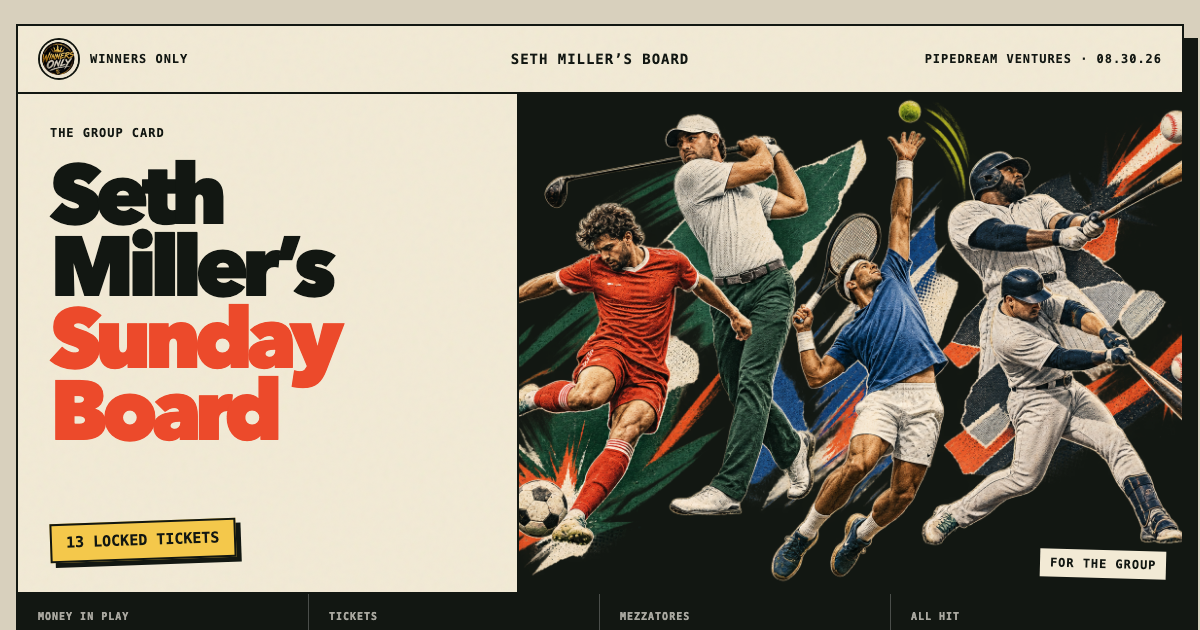
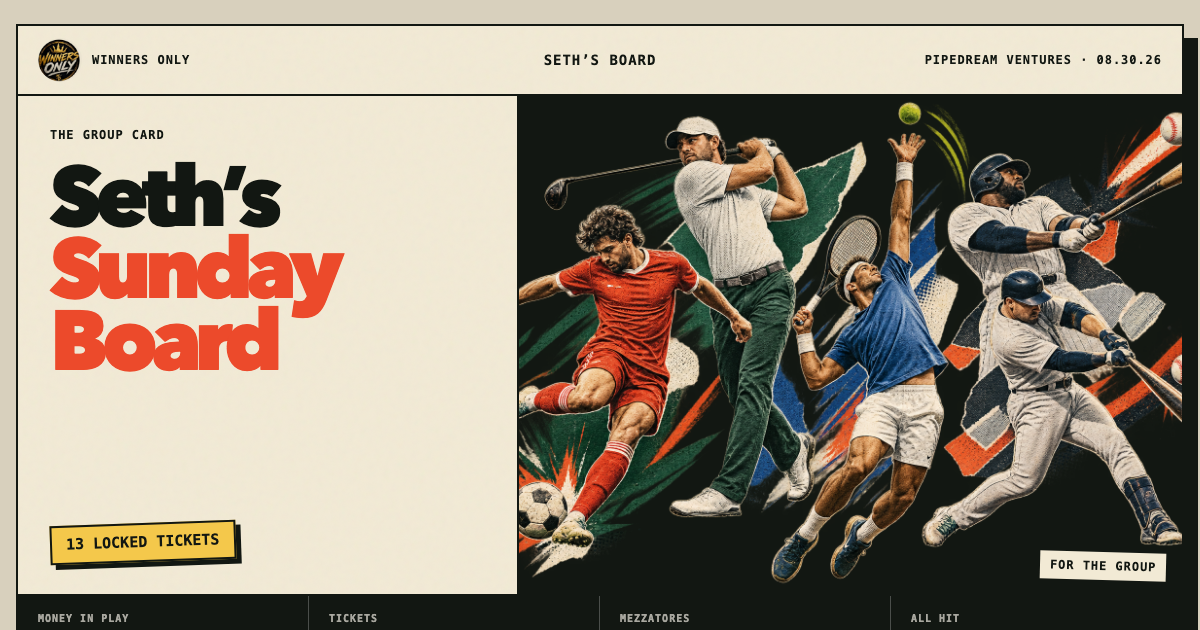
Polish Seth Sunday Board branding

diff --git a/work/sunday-board/index.html b/work/sunday-board/index.html
@@ -3,13 +3,13 @@
   <head>
     <meta charset="utf-8" />
     <meta name="viewport" content="width=device-width, initial-scale=1" />
-    <title>Winners Only · Seth Miller’s Sunday Board</title>
+    <title>Winners Only · Seth’s Sunday Board</title>
     <meta name="description" content="The Winners Only group card for August 30. Thirteen tickets and two Mezzatores." />
     <meta name="robots" content="noindex, nofollow, noarchive" />
     <link rel="canonical" href="https://pipedream.ventures/work/sunday-board/" />
     <meta property="og:type" content="website" />
     <meta property="og:site_name" content="Pipedream Ventures" />
-    <meta property="og:title" content="Winners Only · Seth Miller’s Sunday Board" />
+    <meta property="og:title" content="Winners Only · Seth’s Sunday Board" />
     <meta property="og:description" content="13 locked tickets · $160 in play · 2 Mezzatores" />
     <meta property="og:url" content="https://pipedream.ventures/work/sunday-board/" />
     <meta property="og:image" content="https://pipedream.ventures/work/sunday-board/og-image.png" />
@@ -17,12 +17,12 @@
     <meta property="og:image:type" content="image/png" />
     <meta property="og:image:width" content="1200" />
     <meta property="og:image:height" content="630" />
-    <meta property="og:image:alt" content="Winners Only and Seth Miller’s Sunday Board" />
+    <meta property="og:image:alt" content="Winners Only and Seth’s Sunday Board" />
     <meta name="twitter:card" content="summary_large_image" />
-    <meta name="twitter:title" content="Winners Only · Seth Miller’s Sunday Board" />
+    <meta name="twitter:title" content="Winners Only · Seth’s Sunday Board" />
     <meta name="twitter:description" content="13 locked tickets · $160 in play · 2 Mezzatores" />
     <meta name="twitter:image" content="https://pipedream.ventures/work/sunday-board/og-image.png" />
-    <meta name="twitter:image:alt" content="Winners Only and Seth Miller’s Sunday Board" />
+    <meta name="twitter:image:alt" content="Winners Only and Seth’s Sunday Board" />
     <meta name="theme-color" content="#121712" />
     <link rel="icon" href="/favicon.svg" />
     <style>
@@ -72,7 +72,7 @@
       .masthead strong { justify-self: center; font-size: 14px; }
       .masthead span:last-child { justify-self: end; }
       .brand { display: inline-flex; align-items: center; gap: 10px; }
-      .brand img { width: 42px; height: 42px; border: 2px solid var(--black); border-radius: 50%; object-fit: cover; mix-blend-mode: multiply; }
+      .brand img { width: 44px; height: 44px; border-radius: 50%; object-fit: cover; mix-blend-mode: multiply; }
 
       .hero {
         display: grid;
@@ -183,7 +183,7 @@
         .masthead { grid-template-columns: 1fr; padding: 8px 10px; }
         .masthead strong { display: none; }
         .masthead span:last-child { display: none; }
-        .brand img { width: 38px; height: 38px; }
+        .brand img { width: 40px; height: 40px; }
         .hero-copy { min-height: 380px; padding: 24px 20px; }
         h1 { font-size: clamp(52px, 18vw, 80px); }
         .hero-art { min-height: 380px; }
@@ -213,7 +213,7 @@
     <main class="page">
       <header class="masthead">
         <span class="brand"><img src="winners-only.png" alt="Winners Only emblem" />Winners Only</span>
-        <strong>Seth Miller’s Board</strong>
+        <strong>Seth’s Board</strong>
         <span>Pipedream Ventures · 08.30.26</span>
       </header>
 
@@ -221,7 +221,7 @@
         <div class="hero-copy">
           <div>
             <p class="kicker">The group card</p>
-            <h1>Seth Miller’s <span>Sunday Board</span></h1>
+            <h1>Seth’s <span>Sunday Board</span></h1>
           </div>
           <div class="stamp">13 locked tickets</div>
         </div>
